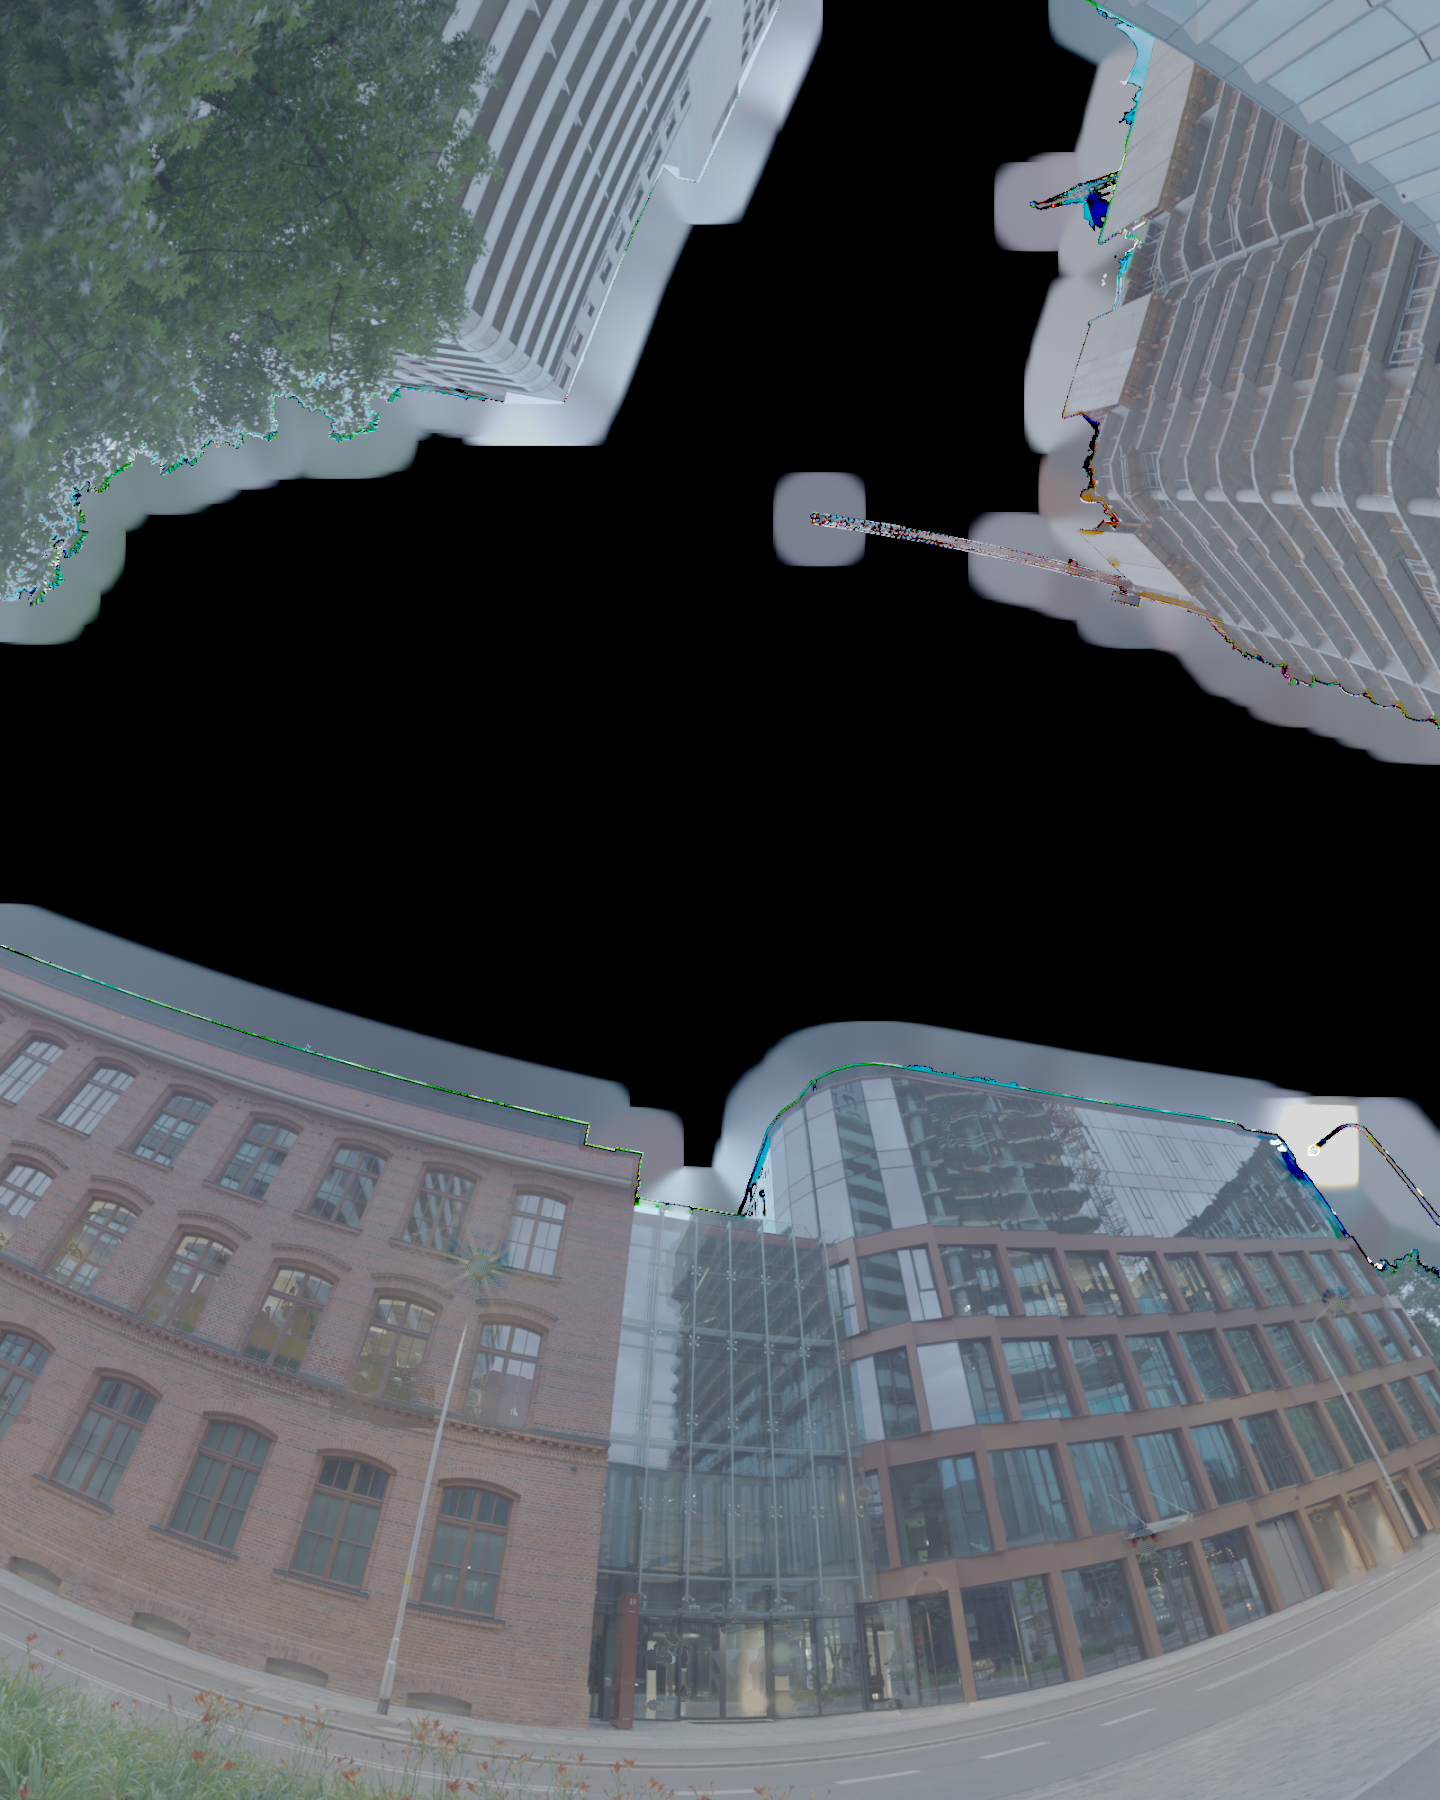
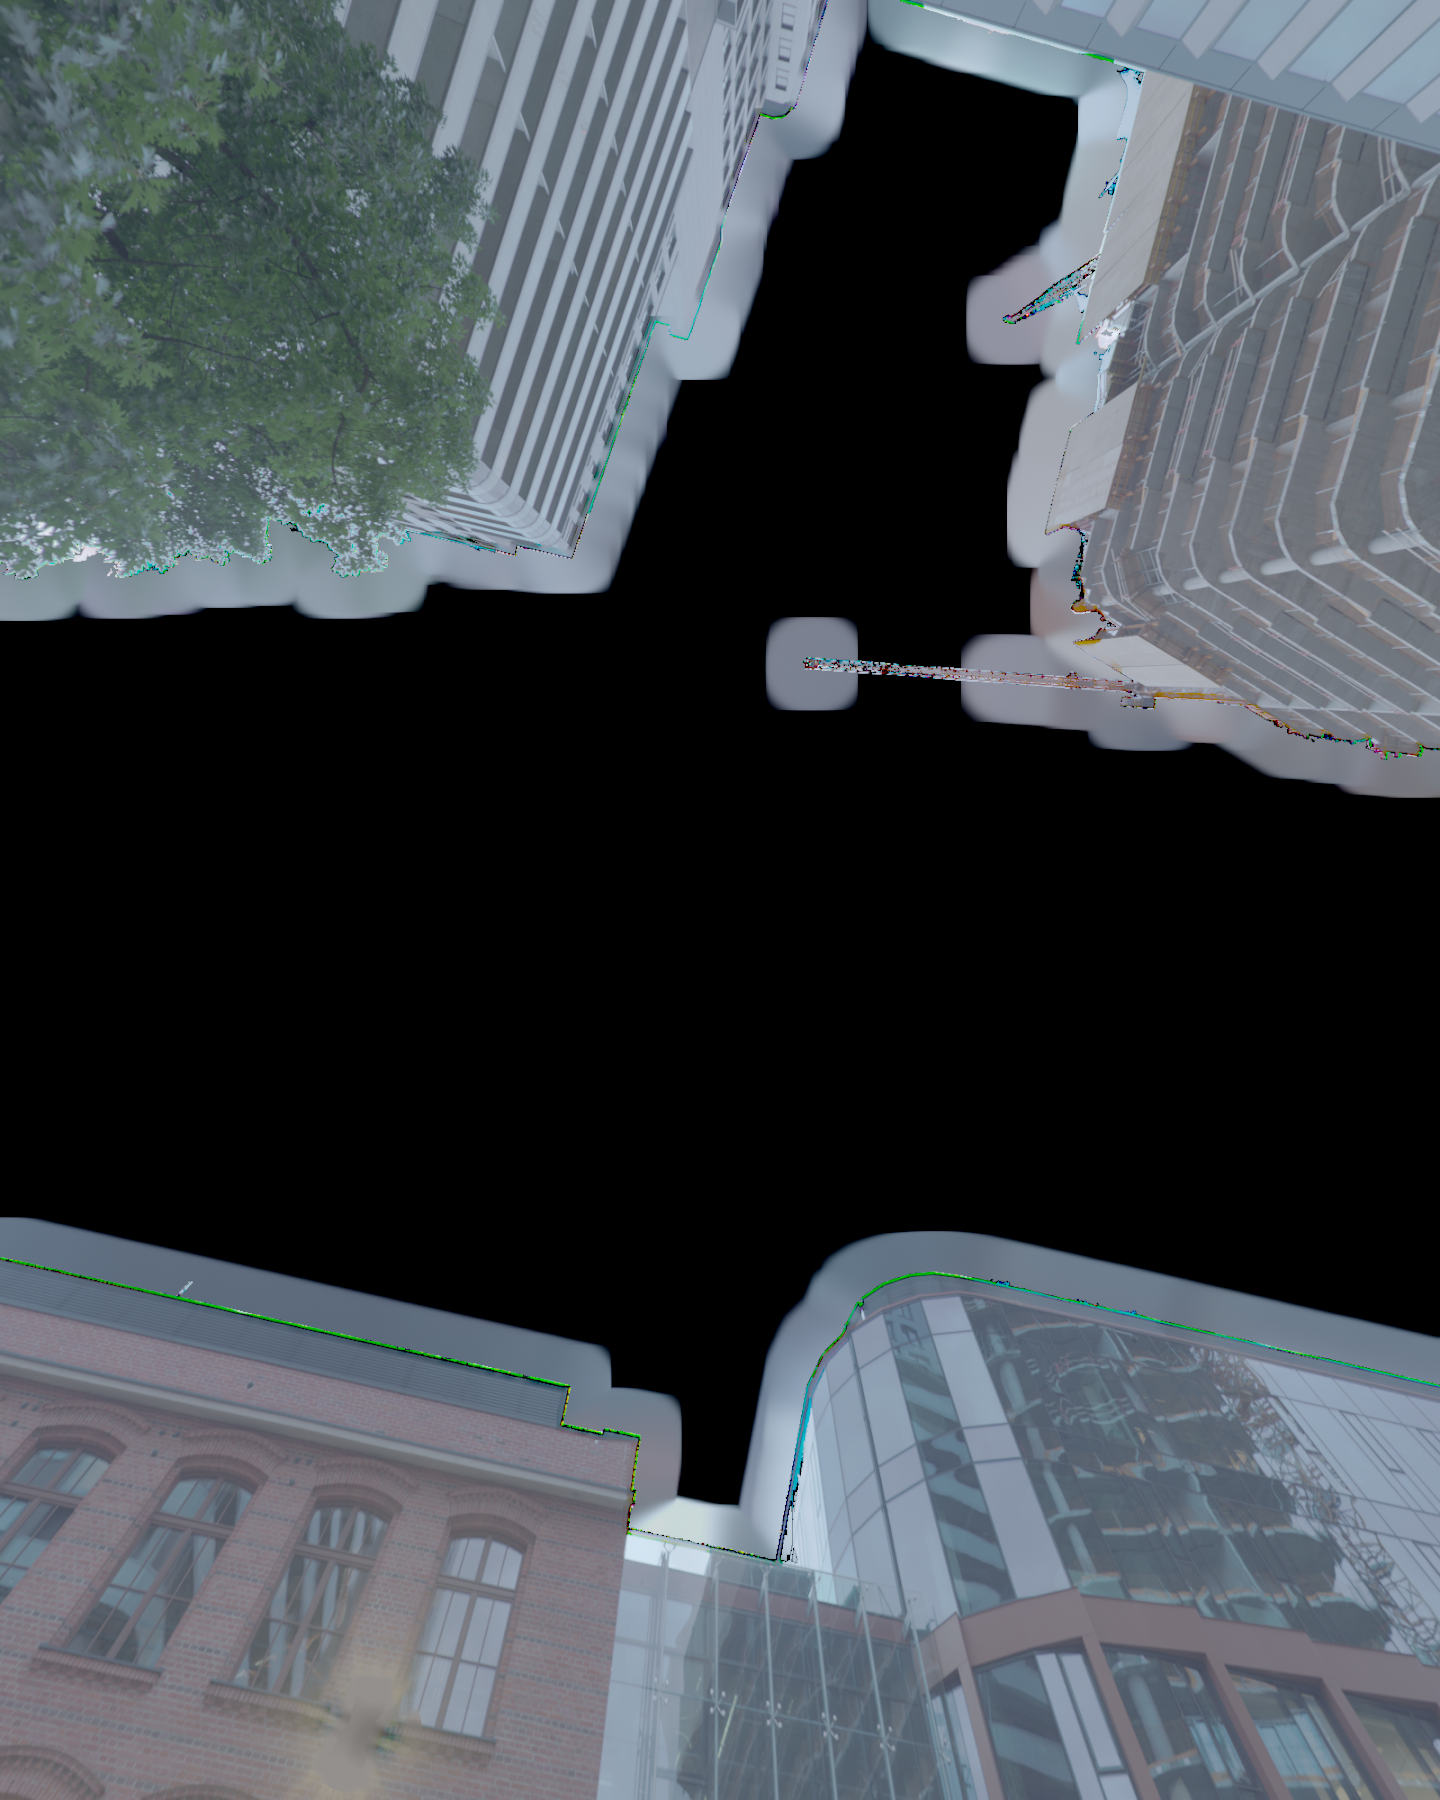
Lab: climb blue-hour round 1
Claude-Session: https://claude.ai/code/session_01RqENhngNCzDFmJWDZueXGV

diff --git a/src/app/lab/blue-hour/blueHourEngine.js b/src/app/lab/blue-hour/blueHourEngine.js
@@ -2,18 +2,17 @@ import { createStage, clamp } from "../_kit/stage";
 import { createFilm, FILM_DEFAULTS, FILM_PRESETS } from "../_kit/film";
 
 // Blue Hour. One real dusk street (Poly Haven's Modern Evening Street, an HDR
-// panorama) seen from the kerb looking up, split offline into three layers of
-// linear light: the ambient city with every lamp switched off, the sky matte
-// with its cloud texture, and the emitters themselves, each lamp and lit room
-// on its own index. Drag across and the twenty minutes after sunset run:
-// the skylight falls about three and a half stops while the sky deepens from
-// pale peach-cyan to cobalt, the camera opens up as a photographer would, and
-// the lights come on in the order a street does: the sodium lamps on their
-// photocells first, slow to warm from pink to amber, then the cool LED
-// downlights, then the rooms upstairs as people reach for the switch, each
-// striking with a short flicker. All of it is developed through _kit/film
-// with its dusk preset easing into night, so the lamps bloom and halate the
-// way they would on CineStill.
+// panorama) seen from the kerb lying on your back: a worm's-eye shaft of sky
+// walled by two towers, a crane, brick and glass, every vertical running in
+// to the zenith. Split offline into three layers of linear light: the ambient
+// city with the lamp switched off, the sky matte with its cloud texture, and
+// the one sodium lamp head poking in at the bottom edge. Drag across and the
+// twenty minutes after sunset run: the skylight falls about three and a half
+// stops while the shaft deepens from pale peach-cyan to cobalt, darkest
+// overhead, the camera opens up as a photographer would, and the lamp trips
+// on its photocell and warms slowly from pink to amber. All of it is
+// developed through _kit/film with its dusk preset easing into night, so the
+// lamp blooms and halates the way it would on CineStill.
 
 const AMB_STOPS = 4.0; // skylight lost over the span
 const EXPO_STOPS = 1.7; // exposure the camera gives back
@@ -22,43 +21,20 @@ const HI = 3;
 const ELO = -9;
 const EHI = 14;
 
-// The view the plate was rendered with (stereographic, see experiment.json),
-// so every sky pixel knows its elevation and bearing.
-const VIEW = { yaw: 118, pitch: -60, hfov: 112, k: 2 };
+// The view the plate was rendered with (see experiment.json), so every sky
+// pixel knows its elevation and bearing: rectilinear (k = 1), 94 deg across,
+// the axis pitched 84 deg up and the frame slid 0.2 half-widths below it (a
+// rising front, seen from underneath), so the zenith and the vanishing point
+// of every vertical sit inside the print, a little above its centre.
+const VIEW = { yaw: 116, pitch: -84, hfov: 94, k: 1, shift: 0.2 };
 const SUN_AZ = 168; // degrees, the bearing the sun went down on
 
 // Lights, from the offline split (index = value in aux.b). kind: street
 // (sodium, on a photocell), led, warm (warm-white LED) or window (a room).
-const LIGHTS = [
-  { kind: "street", x: 479, y: 1266, chroma: [0.505, 0.351, 0.144] },
-  { kind: "street", x: 1313, y: 1150, chroma: [0.455, 0.375, 0.169] },
-  { kind: "street", x: 1336, y: 1301, chroma: [0.47, 0.351, 0.18] },
-  { kind: "window", x: 362, y: 1386 },
-  { kind: "led", x: 1145, y: 1541 },
-  { kind: "window", x: 74, y: 1248 },
-  { kind: "warm", x: 783, y: 1701 },
-  { kind: "led", x: 775, y: 1653 },
-  { kind: "window", x: 7, y: 1226 },
-  { kind: "window", x: 158, y: 1301 },
-  { kind: "window", x: 502, y: 1401 },
-  { kind: "led", x: 666, y: 1652 },
-  { kind: "warm", x: 864, y: 1492 },
-  { kind: "warm", x: 927, y: 1586 },
-  { kind: "window", x: 278, y: 1348 },
-  { kind: "warm", x: 1386, y: 1562 },
-  { kind: "led", x: 1318, y: 1517 },
-  { kind: "led", x: 1103, y: 1604 },
-  { kind: "led", x: 723, y: 1619 },
-  { kind: "led", x: 1351, y: 1504 },
-  { kind: "warm", x: 935, y: 1709 },
-  { kind: "led", x: 1437, y: 1468 },
-  { kind: "led", x: 886, y: 1606 },
-  { kind: "led", x: 684, y: 1692 },
-  { kind: "window", x: 6, y: 1398 },
-  { kind: "warm", x: 653, y: 1705 },
-];
+// Looking straight up only one is in frame, and it is the only warm note.
+const LIGHTS = [{ kind: "street", x: 359, y: 1731, chroma: [0.505, 0.351, 0.144] }];
 const MAX_LIGHTS = 32;
-const STREET_GAIN = 0.4; // the plate's lamps were metered for a darker sky
+const STREET_GAIN = 0.15; // the plate's lamp was metered for a darker sky, and it sits close
 const WARMUP = 0.16; // of the span (~3 min) for a sodium lamp to reach full
 
 // A fixed, believable schedule: photocells trip within a few minutes of each
@@ -73,7 +49,7 @@ function schedule() {
   const ground = LIGHTS.map((l, i) => ({ l, i })).filter((o) => o.l.kind === "led" || o.l.kind === "warm");
   const rooms = LIGHTS.map((l, i) => ({ l, i })).filter((o) => o.l.kind === "window");
   const on = new Array(LIGHTS.length).fill(2);
-  [0.08, 0.13, 0.18].forEach((t, j) => (on[street[j].i] = t));
+  street.forEach((o, j) => (on[o.i] = [0.08, 0.13, 0.18][j % 3]));
   // lowest first: the kerb before the lobby, the lobby before the floors
   ground.sort((a, b) => b.l.y - a.l.y);
   ground.forEach((o, j) => (on[o.i] = 0.27 + (j / ground.length) * 0.18 + rnd() * 0.03));
@@ -109,7 +85,9 @@ uniform sampler2D uAux;     // r sky matte, g cloud log-ratio, b light index
 uniform vec2 uSize;         // target size in px
 uniform vec2 uTexSize;
 uniform mat3 uRot;          // camera to world
-uniform float uF;           // stereographic focal length in plate px
+uniform float uF;           // focal length in plate px
+uniform float uK;           // radial projection: 1 rectilinear, 2 stereographic
+uniform float uShift;       // frame below the optical axis, plate px
 uniform vec2 uSun;          // sun bearing on the horizon (x,z)
 uniform float uS;           // eased time 0..1
 uniform float uAmbK;        // skylight scale
@@ -121,6 +99,7 @@ uniform float uCloudK;
 uniform vec3 uCloudTint;
 uniform float uCloudW;
 uniform float uGlow;        // sun-side brightening
+uniform float uZenDeep;     // stops the zenith sits below the low sky
 uniform float uLod;         // mip level: sharp, only as soft as the print needs
 uniform float uB[${MAX_LIGHTS}];
 uniform vec3 uTint[${MAX_LIGHTS}];
@@ -137,10 +116,10 @@ void main(){
   float lr = (ax.g - 0.5) / 0.3;
   int id = int(texelFetch(uAux, ivec2(uv * uTexSize), 0).b * 255.0 + 0.5);
 
-  // View direction of this plate pixel (stereographic), for the sky gradient.
-  vec2 q = (uv * uTexSize - 0.5 * uTexSize);
+  // View direction of this plate pixel, for the sky gradient.
+  vec2 q = uv * uTexSize - 0.5 * uTexSize + vec2(0.0, uShift);
   float r = length(q) + 1e-6;
-  float th = 2.0 * atan(r / (2.0 * uF));
+  float th = uK * atan(r / (uK * uF));
   vec3 dc = vec3(q / r * sin(th), cos(th));
   vec3 d = uRot * dc;
   float elev = asin(clamp(-d.y, -1.0, 1.0));
@@ -155,6 +134,10 @@ void main(){
   vec3 col = mix(uZen, uMid, smoothstep(0.0, 0.5, g));
   col = mix(col, hor, smoothstep(0.3, 0.8, g));
   float lum = uSkyLum * (1.0 + uGlow * g * g * facing);
+  // Looking almost straight up the gradient is the picture: the zenith is
+  // the deepest, most saturated blue and the sky pales towards the roofs.
+  float ze = smoothstep(0.4, 1.0, e);
+  lum *= exp2(uZenDeep * (0.45 - ze));
   // Cloud: the plate's own texture, as a luminance ratio; the denser parts
   // catch the last warm light, later the city's glow.
   float w = smoothstep(-0.1, 0.5, lr);
@@ -276,8 +259,8 @@ const smooth = (a, b, x) => {
 
 // The sky at sunset (pale peach at the horizon under a cyan zenith) and at
 // +20 minutes (cobalt overhead, a cleaner, lighter blue low down).
-const SKY0 = { zen: lin("#a2c6dc"), mid: lin("#d0d7d4"), horSun: lin("#f2c29c"), horAnti: lin("#dcc8bf"), lum: 0.92, cloudK: 1.0, cloudTint: [1.22, 0.97, 0.82], cloudW: 0.55, glow: 0.55 };
-const SKY1 = { zen: lin("#06428a"), mid: lin("#0f5aa6"), horSun: lin("#4a8cc2"), horAnti: lin("#1460a8"), lum: 0.32, cloudK: 0.8, cloudTint: [1.02, 1.0, 0.98], cloudW: 0.3, glow: 1.4 };
+const SKY0 = { zen: lin("#a2c6dc"), mid: lin("#d0d7d4"), horSun: lin("#f0caa0"), horAnti: lin("#d6d3c4"), lum: 0.92, cloudK: 1.0, cloudTint: [1.22, 0.97, 0.82], cloudW: 0.55, glow: 0.55, zenDeep: 0.6 };
+const SKY1 = { zen: lin("#0b5592"), mid: lin("#0f5aa6"), horSun: lin("#4a8cc2"), horAnti: lin("#1460a8"), lum: 0.32, cloudK: 0.8, cloudTint: [1.02, 1.0, 0.98], cloudW: 0.3, glow: 1.4, zenDeep: 1.5 };
 
 function lerpParams(a, b, k) {
   const out = {};
@@ -557,6 +540,8 @@ export async function createBlueHour(host, { embedded = false } = {}) {
     gl.uniform2f(u.uTexSize, texW, texH);
     gl.uniformMatrix3fv(u.uRot, false, rot);
     gl.uniform1f(u.uF, fPlate);
+    gl.uniform1f(u.uK, VIEW.k);
+    gl.uniform1f(u.uShift, (VIEW.shift * texW) / 2);
     gl.uniform2f(u.uSun, sunDir[0], sunDir[1]);
     gl.uniform1f(u.uS, s);
     gl.uniform1f(u.uAmbK, ambK);
@@ -571,6 +556,7 @@ export async function createBlueHour(host, { embedded = false } = {}) {
     gl.uniform3fv(u.uCloudTint, sky.cloudTint);
     gl.uniform1f(u.uCloudW, sky.cloudW);
     gl.uniform1f(u.uGlow, sky.glow);
+    gl.uniform1f(u.uZenDeep, sky.zenDeep);
     gl.uniform1f(u.uLod, Math.max(0, Math.log2(texH / sceneT.h) - 0.7));
     gl.uniform1fv(u.uB, B);
     gl.uniform3fv(u.uTint, TINT);
